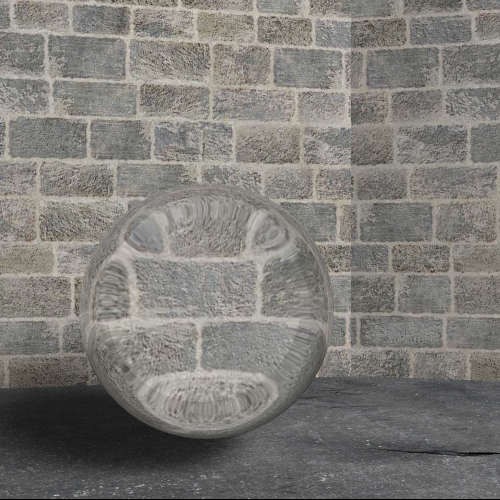
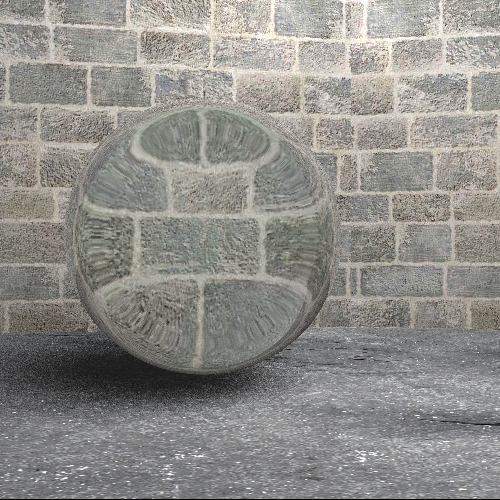
update refraction1_1

diff --git a/index.html b/index.html
@@ -230,7 +230,7 @@
                     src="images/refraction1_1.png"></img>
                   <div class="container">
                     <div class="carousel-caption d-none d-md-block">
-                      <p>Refract coefficient: 1.2</p>
+                      <p>Refract coefficient: 1.1</p>
                     </div>
                   </div>
                 </div>
@@ -297,6 +297,56 @@
                 <span class="visually-hidden">Previous</span>
               </button>
               <button class="carousel-control-next" type="button" data-bs-target="#glossyCarousel" data-bs-slide="next">
+                <span class="carousel-control-next-icon" aria-hidden="true"></span>
+                <span class="visually-hidden">Next</span>
+              </button>
+            </div>
+          </div>
+        </div>
+
+        <!-- PHONG SHADER -->
+        <hr class="featurette-divider">
+        <div id="PHONG" class="row featurette">
+          <div class="col-md-7">
+            <h3 class="featurette-heading">Phong Shader</h3>
+            <li>Use Snell's Law to calculate the direction of refracted ray</li>
+            <li>Recursively trace the refracted ray</li>
+            <li>Blend the color from refraction and reflection by Fresnel's Law</li>
+          </div>
+          <div class="col-md-5">
+            <div id="refractCarousel" class="carousel slide" data-ride="carousel">
+              <div class="carousel-indicators">
+                <button type="button" data-bs-target="#refractCarousel" data-bs-slide-to="0" class="active"
+                  aria-current="true"></button>
+                <button type="button" data-bs-target="#refractCarousel" data-bs-slide-to="1"></button>
+              </div>
+              <div class="carousel-inner">
+                <div class="carousel-item active">
+                  <img class="bd-placeholder-img img-fluid" width="auto" height="auto"
+                    src="images/refraction1_1.png"></img>
+                  <div class="container">
+                    <div class="carousel-caption d-none d-md-block">
+                      <p>Refract coefficient: 1.1</p>
+                    </div>
+                  </div>
+                </div>
+                <div class="carousel-item">
+                  <img class="bd-placeholder-img img-fluid" width="auto" height="auto"
+                    src="images/refraction1_0.png"></img>
+                  <div class="container">
+                    <div class="carousel-caption d-none d-md-block">
+                      <p>Refract coefficient: 1.0</p>
+                    </div>
+                  </div>
+                </div>
+              </div>
+              <button class="carousel-control-prev" type="button" data-bs-target="#refractCarousel"
+                data-bs-slide="prev">
+                <span class="carousel-control-prev-icon" aria-hidden="true"></span>
+                <span class="visually-hidden">Previous</span>
+              </button>
+              <button class="carousel-control-next" type="button" data-bs-target="#refractCarousel"
+                data-bs-slide="next">
                 <span class="carousel-control-next-icon" aria-hidden="true"></span>
                 <span class="visually-hidden">Next</span>
               </button>
